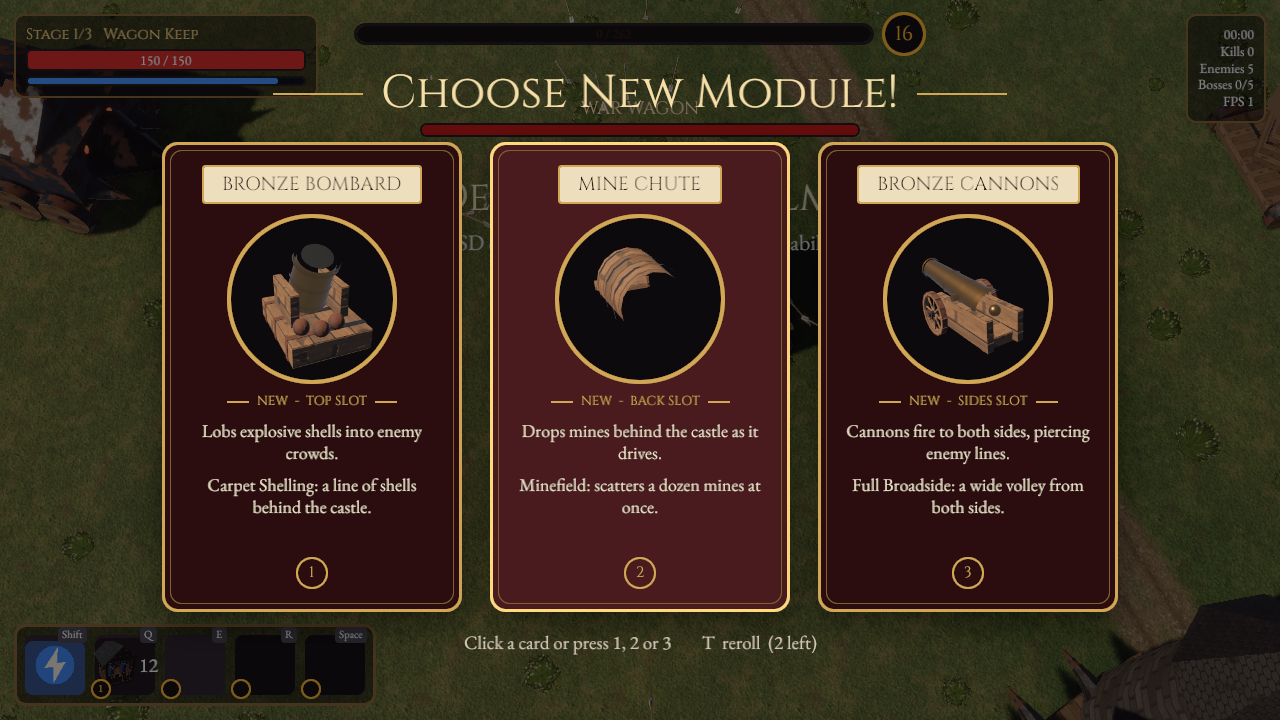
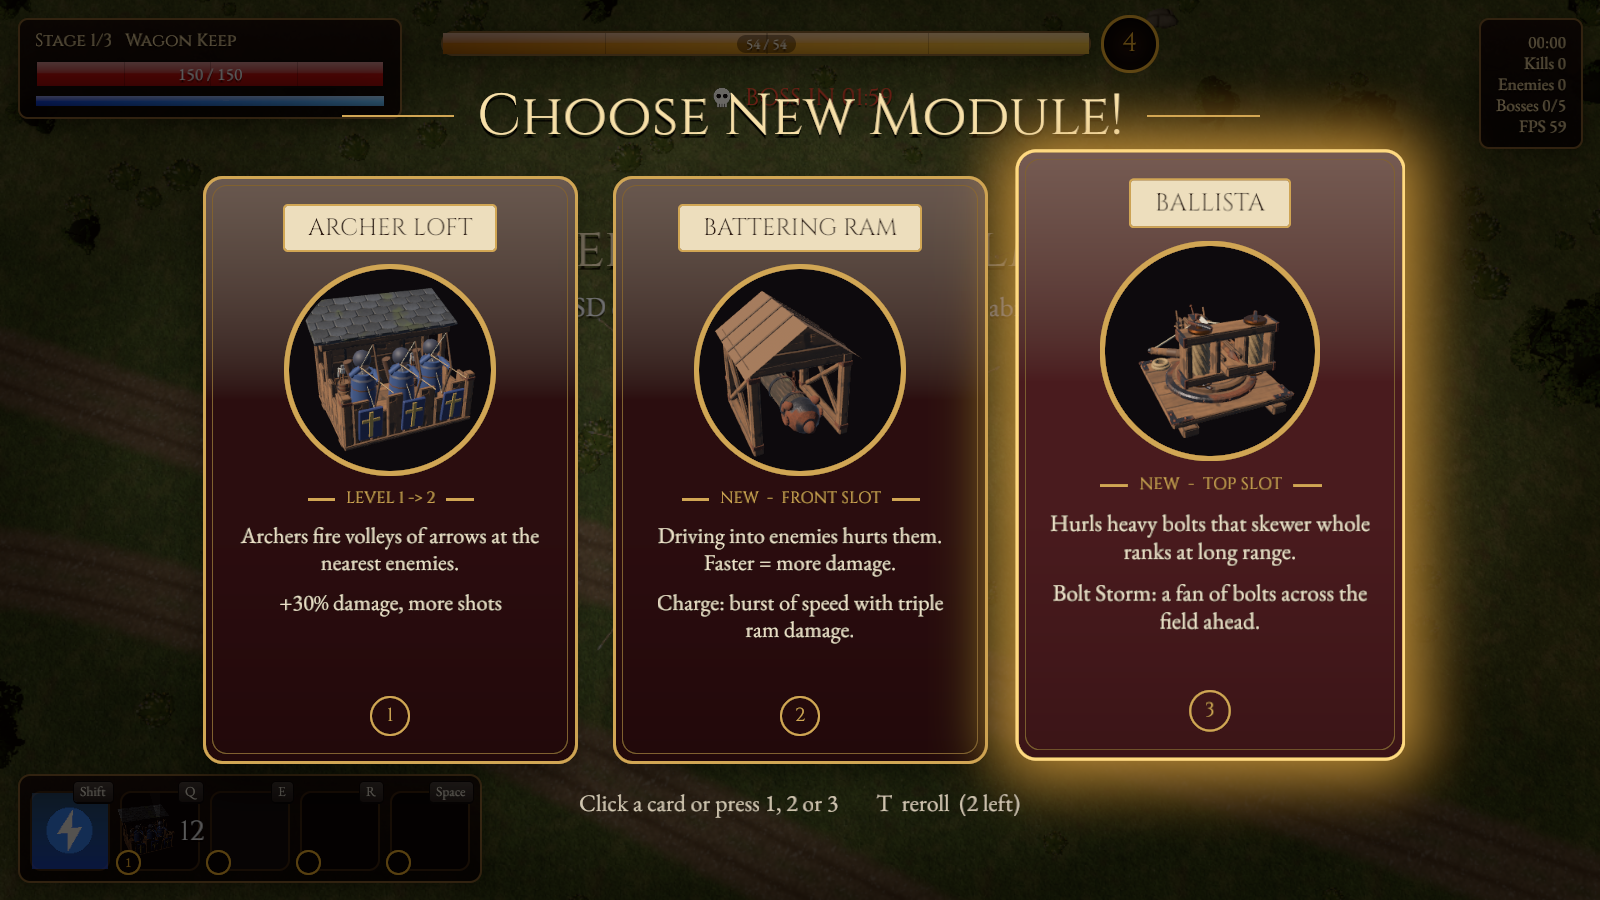
New README screenshots from the merged game
Taken on main after all branches were merged (bosses and graphics-polish
checklists): Iron Citadel against the Warlord, a level-up card screen and
a busy endless-mode moment with the Siege Tower.

diff --git a/README.md b/README.md
@@ -6,7 +6,7 @@ Drive a castle on wheels across the countryside, plow through marching armies, a
 
 ![Gameplay](docs/gameplay.png)
 
-| Level-up cards | Grand Citadel vs. the Warlord |
+| Level-up cards | Iron Citadel vs. the Warlord |
 |---|---|
 | ![Cards](docs/cards.png) | ![Bosses](docs/bosses.png) |
 
